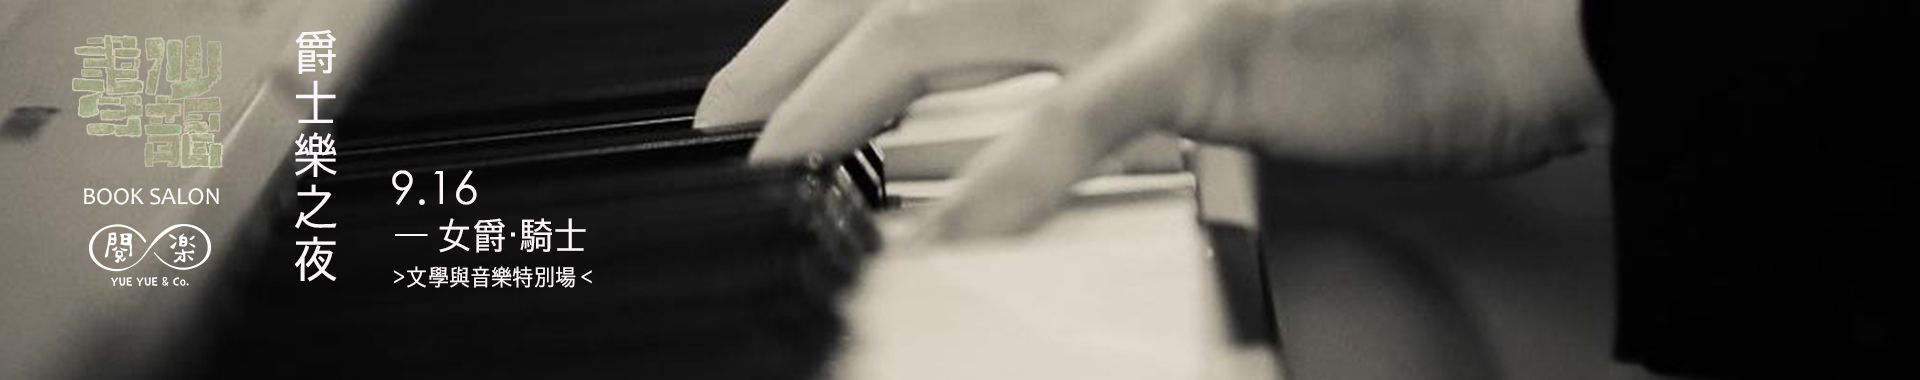
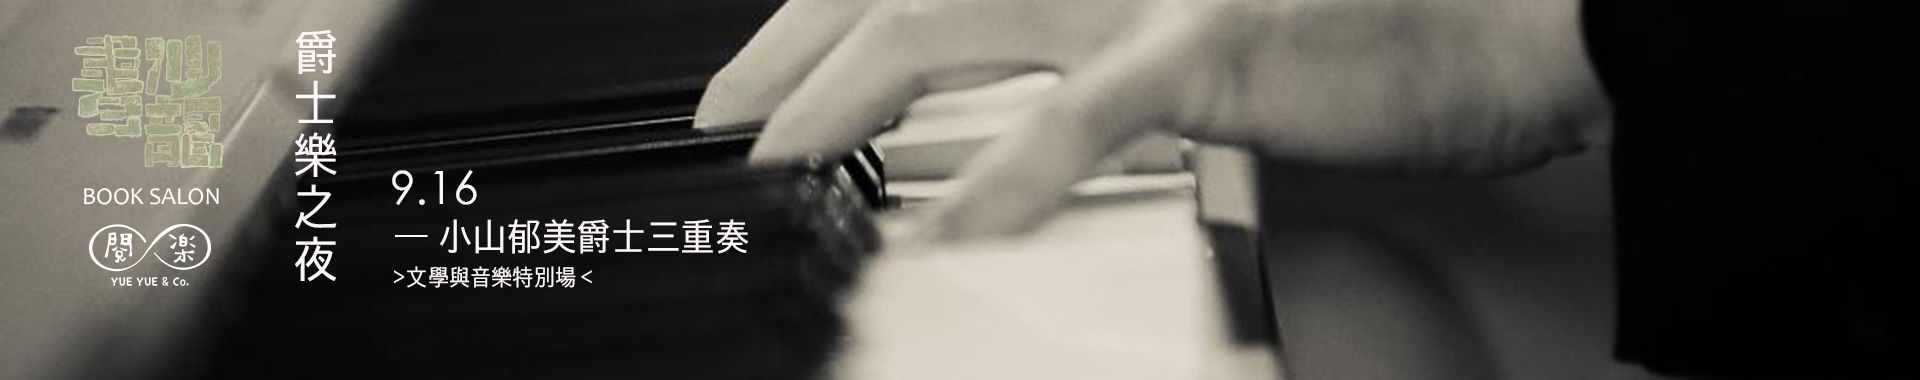
Update yueyuebookstore-160916

Changed region(s): [[0.2188, 0.5789, 0.4062, 0.6658]]

diff --git a/yueyuebookstore/160916/index.html b/yueyuebookstore/160916/index.html
@@ -31,11 +31,11 @@
 	<noscript><img src="https://d5nxst8fruw4z.cloudfront.net/atrk.gif?account=JenUk1a4SBe0Y8" style="display:none" height="1" width="1" alt="" /></noscript>
 	<!-- End Alexa Certify Javascript -->
 	<script type="text/javascript" src="http://live-api.fanily.tw/socket.io/socket.io.js"></script>
-	<script type="text/javascript" src="js/config.js?t=1473864401"></script>
+	<script type="text/javascript" src="js/config.js?t=1473875642"></script>
 </head>
 <body>
     <div class="section container top">
-        <img src="images/top.jpg?v=1" width="1920" height="289" class="img-responsive">
+        <img src="images/top.jpg?v=2" width="1920" height="289" class="img-responsive">
         <div class="logout">
 			<img class="avatars img-circle" src="images/avatars.png">
 			<span>登出</span>

diff --git a/yueyuebookstore/160916/js/config.js b/yueyuebookstore/160916/js/config.js
@@ -34,7 +34,7 @@ var config = {
 		{
 			"title" : "演出樂團",
 			"name" : "小山郁美爵士三重奏",
-			"avatars" : "images/guests-2.jpg?v=1"
+			"avatars" : "images/guests-2.jpg?v=2"
 		}
 	],
 	login_title : [
